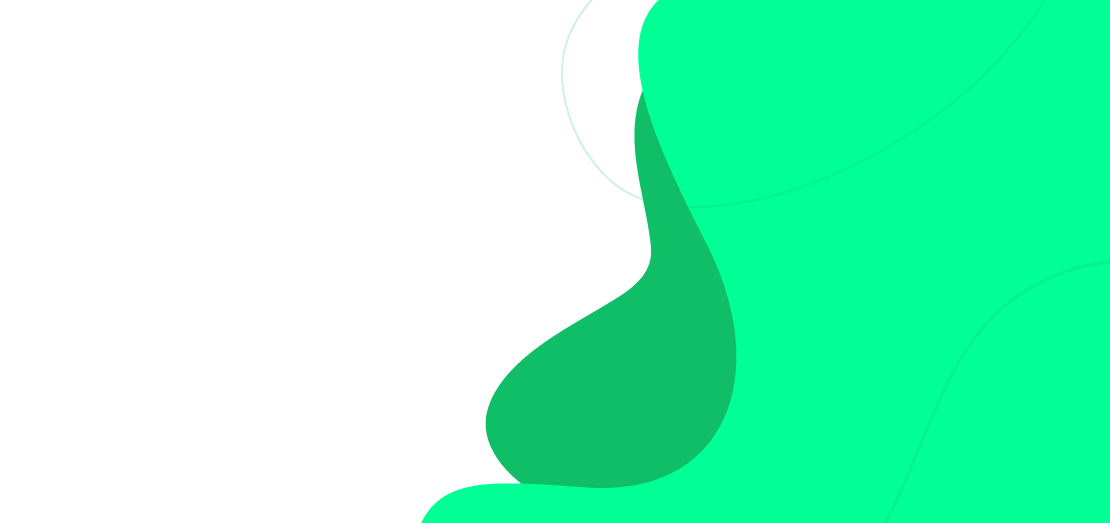
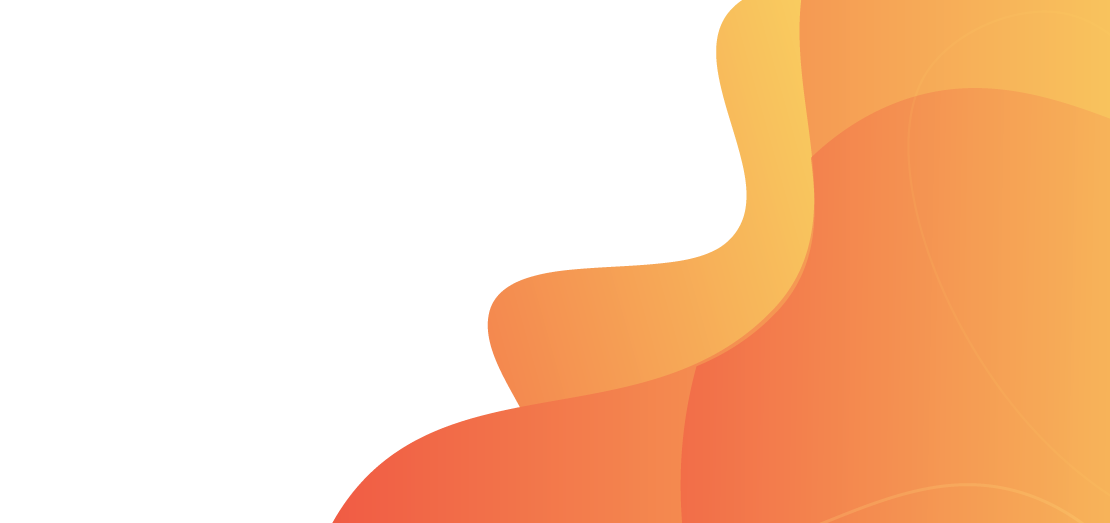
Finalización de la maqueta del  scorm 17

diff --git a/src/components/Actividad1/Actividad.jsx b/src/components/Actividad1/Actividad.jsx
@@ -1,81 +1,49 @@
-import React, {useRef} from 'react'
+import React from 'react'
 //Components
 import Container from '../Container'
 import ProgressBar from '../ProgressBar'
 import MainTitle from '../MainTitle'
-import DraggableItem from '../Draggable'
-import Area from '../AreaDrop'
-import ButtonUi from '../ButtonControlUI'
 import Modal from '../Generales/Modal'
-
+import InputWords from '../InputWords'
+import ButtonUi from '../ButtonControlUI'
+import ButtonEval from '../ButtonEval'
 
 // Styles
 import styled from 'styled-components'
-import styles, { DraggablesContainer, AreasContainer, ProgressbarContainer, UiButtonsContainer } from './Actividad_styles'
+import styles, { ProgressbarContainer, UiButtonsContainer } from './Actividad_styles'
 import Ilex from '../../App/variables'
-// import interaction from './Actividad_interactions'
-import dataItems from './Actividad_data'
-import { useState } from 'react'
+
 
 const Actividad_base = ({staticContext, ...props}) => {
-    const [itemsCompletados, modItemsCompletados] = useState([])
-    const insertarItems = (val) => {
-        if (itemsCompletados.indexOf(val) === -1 ) {
-            modItemsCompletados( itemsCompletados.concat(val) )
-        } else {
-            console.log('Cant Register because is already in area')
-            console.log(itemsCompletados)
-            console.log('La cantidad de items en el array es? ', dataItems.length)
-        }
-
-    }
-// Comprobar y aprobar el examen
-    const comprobarPrueba = () => {
-        if(itemsCompletados.length === dataItems.length) {
-            return true
-        }
-        return false
-    }
-// Refs de las areas
-    const area_1 = useRef()
-    const area_2 = useRef()
-    const area_3 = useRef()
 
  
     return (
-        <Container bgImage='./src/bg_actividad1.png' {...props} id="area" h={50}>
-            
+        <Container {...props} bgImage='./src/bg_actividad1.png' h={40}>
+            <ProgressbarContainer>
+                <ProgressBar progress={50} />
+            </ProgressbarContainer>
             <UiButtonsContainer>
-                <ButtonUi icon='ilx-ayuda' tooltip='Drag the words to the appropriate box, plural, female or male.' />
+                <ButtonUi icon='ilx-ayuda' tooltip='Write the correct order of the sentence then press check to verify if it is correct or not' />
                 <ButtonUi icon='ilx-volver' tooltip='Start Again' onClick={ () => {window.location.href = '/actividad1'} } />
             </UiButtonsContainer>
-
-            <ProgressbarContainer>
-                <ProgressBar progress={0}/>
-            </ProgressbarContainer>
-            
-
-
-            <MainTitle color={Ilex.violeta2}>
-            LISTEN AND PRACTICE FAMILY MEMBERS. THEN, CLASSIFY EACH FAMILY MEMBER BY ITS GENDER.
-            </MainTitle>
-            
-            <DraggablesContainer>
-                
-                { dataItems.map((dato)=>{
-                    return(
-                        <DraggableItem audio={dato.audio} name={dato.name} key={dato.id} elementId={dato.id} info={insertarItems} className='dragItem' areaDrag="#area" target={dato.areaTarget} ref={[area_1, area_2, area_3]}/>
-                    )
-                }) }
-
-            </DraggablesContainer>
-            <AreasContainer >
-                <Area title='Plural' data-target="area_1" id="area_1" ref={area_1} />
-                <Area title='Female' data-target="area_2" id="area_2" ref={area_2} />
-                <Area title='Male' data-target="area_3" id="area_3" ref={area_3} />
-            </AreasContainer>
-
-            <Modal visible={comprobarPrueba()} ok w={25} nxtUrl='/actividad2' />
+            <div className='container-content'>
+                <MainTitle color={Ilex.violeta2}> COMPLETE THE CONVERSATION WITH THE CORRECT ORDER OF SENTENCES </MainTitle>
+            </div>
+            <div className='listado'>
+                <div>
+                    <div className="itemLine"> <span className="he">Andrés:</span> What time do you wake up? </div>
+                    
+                    <div className="itemLine"> <span className="she">Daniela:</span> <InputWords answer='I wake up at eight o’clock'  w={10} p="0.16em 0.5em" m="0 0.3em" /> <ButtonEval color={Ilex.morado} mx={0.2}>Check</ButtonEval> /at/I/eight o’clock/wake up /</div>
+                    <div className="itemLine"> <span className="she">Daniela:</span> Do you go to the university early in the morning? </div>
+                    <div className="itemLine"> <span className="he">Andrés:</span> <InputWords answer='No, I go at eleven thirty'  w={10} p="0.16em 0.5em" m="0 0.3em"/> <ButtonEval color={Ilex.morado} mx={0.2}>Check</ButtonEval> /go/I/eleven thirty/at/No,/ </div>
+                    
+                    <div className="itemLine"> <span className="he">Andrés:</span> What time do you get home?</div>                
+                    <div className="itemLine"> <span className="she">Daniela:</span> <InputWords answer='I get home at eight o’clock'  w={10} p="0.16em 0.5em" m="0 0.3em" /> <ButtonEval color={Ilex.morado} mx={0.2}>Check</ButtonEval> /home/eight o’clock/at/get/I/ </div>
+                    <div className="itemLine"> <span className="she">Daniela:</span> <InputWords answer='What time do you have dinner?'  w={10} p="0.16em 0.5em" m="0 0.3em" /> <ButtonEval color={Ilex.morado} mx={0.2}>Check</ButtonEval> /time/have/What/do/dinner?/you/ </div>
+                    <div className="itemLine"> <span className="he">Andrés:</span> I have dinner at around 7:00 PM</div>
+                    </div>
+                    <Modal visible={false} ok w={25} nxtUrl='/' repeatUrl='/actividad3'/> 
+            </div>
         </Container>
     )
 

diff --git a/src/components/Home/Home.jsx b/src/components/Home/Home.jsx
@@ -3,6 +3,7 @@ import styled from 'styled-components'
 import Container from '../Container'
 import {ButtonLink} from '../ButtonX'
 import estilos_home from './Home_styles'
+import { ICol } from '../Grid'
 
 
 
@@ -13,17 +14,20 @@ const Home_base = function ({ staticContext, ...props}) { // se le pasan las pro
 
                     <div className='bloque-izquierdo'>
                         <div className='bloque-izquierdo-container'>
-                            <h1> A language teacher's family </h1>
-                            <p>
-                            This activity count with 3 parts. Read, organize and complete the exercises.
-                            <span className='negrilla'> <br/> <br/> ¡Time to practice your reading skill! </span></p>
-                            <ButtonLink to='/actividad1'>Start</ButtonLink>
+                            <ICol mt={2}>
+                                <h1> 20 Minutes </h1>
+                                <p> Complete the conversation with the correct order of sentences. </p>
+                                <ButtonLink to='/actividad1'>Start</ButtonLink>
+                            </ICol>
+
                         </div>
                     </div>
                     <div className='bloque-derecho'>
-                        <figure>
-                            <img src='./src/cover.png' alt='Logo' />    
-                        </figure>
+                        <ICol mt={2}>
+                            <figure>
+                                <img src='./src/cover.png' alt='Logo' />    
+                            </figure>
+                        </ICol>
 
                     </div>
 

diff --git a/src/components/InputWords/InputWords.jsx b/src/components/InputWords/InputWords.jsx
@@ -11,14 +11,15 @@ import { Input } from './InputWords_styles'
  * 
  * ok boolean bordea de verde el campo
  * err boolean bordea con rojo el campo
+ * okfull boolean rellena de verde el campo
+ * errfull boolean rellena con rojo el campo
  * w string/number define el ancho en em 
  * m string recibe un string con el valor para la propiedad margin ej: m = '0 auto 0 auto'
  * p string recibe un string con el valor para la propiedad padding ej: p = '0 1px 0 10px'
- * value function devuelve el valor que tiene el campo
  */
 
 // Componente base
-const InputWords_base = ({w, m, p, ok, err, ...props}) => {
+const InputWords_base = ({w, m, p, ok, err, okfull, errfull, ...props}) => {
     const [inputValue, setInputValue] = useState('')
 
     const updateText = (event) => {
@@ -26,7 +27,7 @@ const InputWords_base = ({w, m, p, ok, err, ...props}) => {
     }
     return (
         <div {...props}>
-           <Input className={`btn-clean input-words ${+ ok ? ' ok' : err ? ' err' : '' }`} value = { inputValue } onChange={ updateText } />
+           <Input className={`btn-clean input-words ${+ ok ? ' ok' : err ? ' err' : '' } ${+ okfull ? ' okfull' : errfull ? ' errfull' : '' }`} value = { inputValue } onChange={ updateText } placeholder="Write text here" />
         </div>
     )
 }

diff --git a/src/components/Actividad1/Actividad_styles.js b/src/components/Actividad1/Actividad_styles.js
@@ -5,7 +5,30 @@ import Ilex from '../../App/variables'
 import animations from './Actividad_animations'
 
 const mistyles = css`
+.listado{
+    padding:2em;
+    width:50em;
+    margin:auto;
+    color:${Ilex.textos};
+    text-align:center;
+    .contenedorButton{
+        padding:2em 0;
+        text-align:right;
+    }
+    .itemLine{
+        padding: 0.7em 0;
+    }
+}
 
+.he,.she{
+    font-weight: bolder;
+}
+.he{
+    color: ${Ilex.color_azul_vivo}
+}
+.she{
+    color: ${Ilex.violeta2}
+}
 `
 
 export const DraggablesContainer = styled.div`
@@ -39,4 +62,23 @@ export const UiButtonsContainer = styled.div`
 
 `
 
-export default {mistyles , DraggablesContainer, AreasContainer, ProgressbarContainer}
+export const Olist = styled.ol`
+    list-style:none;
+    counter-reset:contador;
+
+`
+
+export const Item = styled.li`
+    font-weight:normal;
+    counter-increment:contador;
+    padding:0;
+    margin:0.2em 0;
+    &::before{
+        content:counter(contador)')';
+        font-weight:bold;
+        margin-right:0.75em;
+    }
+`
+
+
+export default {mistyles , DraggablesContainer, AreasContainer, ProgressbarContainer, Olist, Item}

diff --git a/src/components/InputWords/InputWords_styles.js b/src/components/InputWords/InputWords_styles.js
@@ -3,7 +3,7 @@ import Ilex from '../../App/variables'
 
 const styles = css`
 display: inline-block;
-margin: ${props => props.m || 0}em;
+margin: ${props => props.m || 0};
 width:${props => props.w ? props.w+'em' : '100%'};
 .input-words {
     padding: ${props => props.p || 0 + 'em'};
@@ -19,14 +19,29 @@ border-radius: 0.5em;
 box-shadow:0 0.3em 0 0 ${Ilex.color_gris_input};
 font-family:${Ilex.font};
 font-size:1em;
-color:${Ilex.textos};
-font-weight:bold;
+color:${Ilex.color_grisMedio};
+font-weight:lighter;
 width:100%;
+&::placeholder{
+    color:${Ilex.color_gris_input};
+}
 &.ok{
     border:2px dashed ${Ilex.verde};
 }
 &.err{
     border:2px dashed ${Ilex.color_rojo};
+}
+
+&.okfull{
+    border:2px dashed ${Ilex.verde};
+    background-color:${Ilex.verde};
+    color:#fff;
+}
+
+&.errfull{
+    border:2px dashed ${Ilex.rosa};
+    background-color:${Ilex.color_rojo};
+    color:#fff;
 }
 
 `

diff --git a/src/App.js b/src/App.js
@@ -51,7 +51,7 @@ const App = () => {
   return(
     <>
       <Gstyle/>
-      <Fondo degradado={Ilex.degradado('-60deg',Ilex.color_verde_reading,Ilex.color_verde_reading,Ilex.azul)}>
+      <Fondo degradado={Ilex.degradado('-60deg',Ilex.color_amarilloOscuro,Ilex.color_amarilloOscuro,Ilex.color_amarilloClaro)}>
         <BrowserRouter>
           <Route path='/' exact component={Home} />
           <Route path='/actividad1' component={Actividad1} />

diff --git a/src/components/ButtonEval/ButtonEval.jsx b/src/components/ButtonEval/ButtonEval.jsx
@@ -3,9 +3,11 @@
 import React from 'react'
 import styled from 'styled-components'
 import styles from './ButtonEval_styles'
-
+/*
+    mx: String/Number - Margin X 
+*/
 // Componente base
-const ButtonEval_base = ({color ,...props}) => {
+const ButtonEval_base = ({mx, color ,...props}) => {
     return (
         <div {...props}>
             <button className='btn-clean'>

diff --git a/src/components/ButtonX/ButtonX.jsx b/src/components/ButtonX/ButtonX.jsx
@@ -10,7 +10,7 @@ const styles = css`
     text-transform:uppercase;
     font-size:1.5em;
     display:block;
-    margin:1.5em 0;
+    margin:1em 0;
     padding: 0.4em 1.1em;
     border-radius: 1em 1em 1em 1em;
     background: ${Ilex.degradado('90deg', Ilex.rosa, Ilex.azul, Ilex.violeta)};

diff --git a/src/App/variables.js b/src/App/variables.js
@@ -27,6 +27,7 @@ const ilex = {
   color_rosa_radios:'#BA61FF',
   color_rosa_speaking:'#EC5A82',
   color_violeta_speaking:'#8742D5',
+  color_azul_vivo:'#00ccff',
   degradado:(rot, color1, color2, color3) => {
       return `linear-gradient(${rot},${color1},${color2},${color3})`
   },
